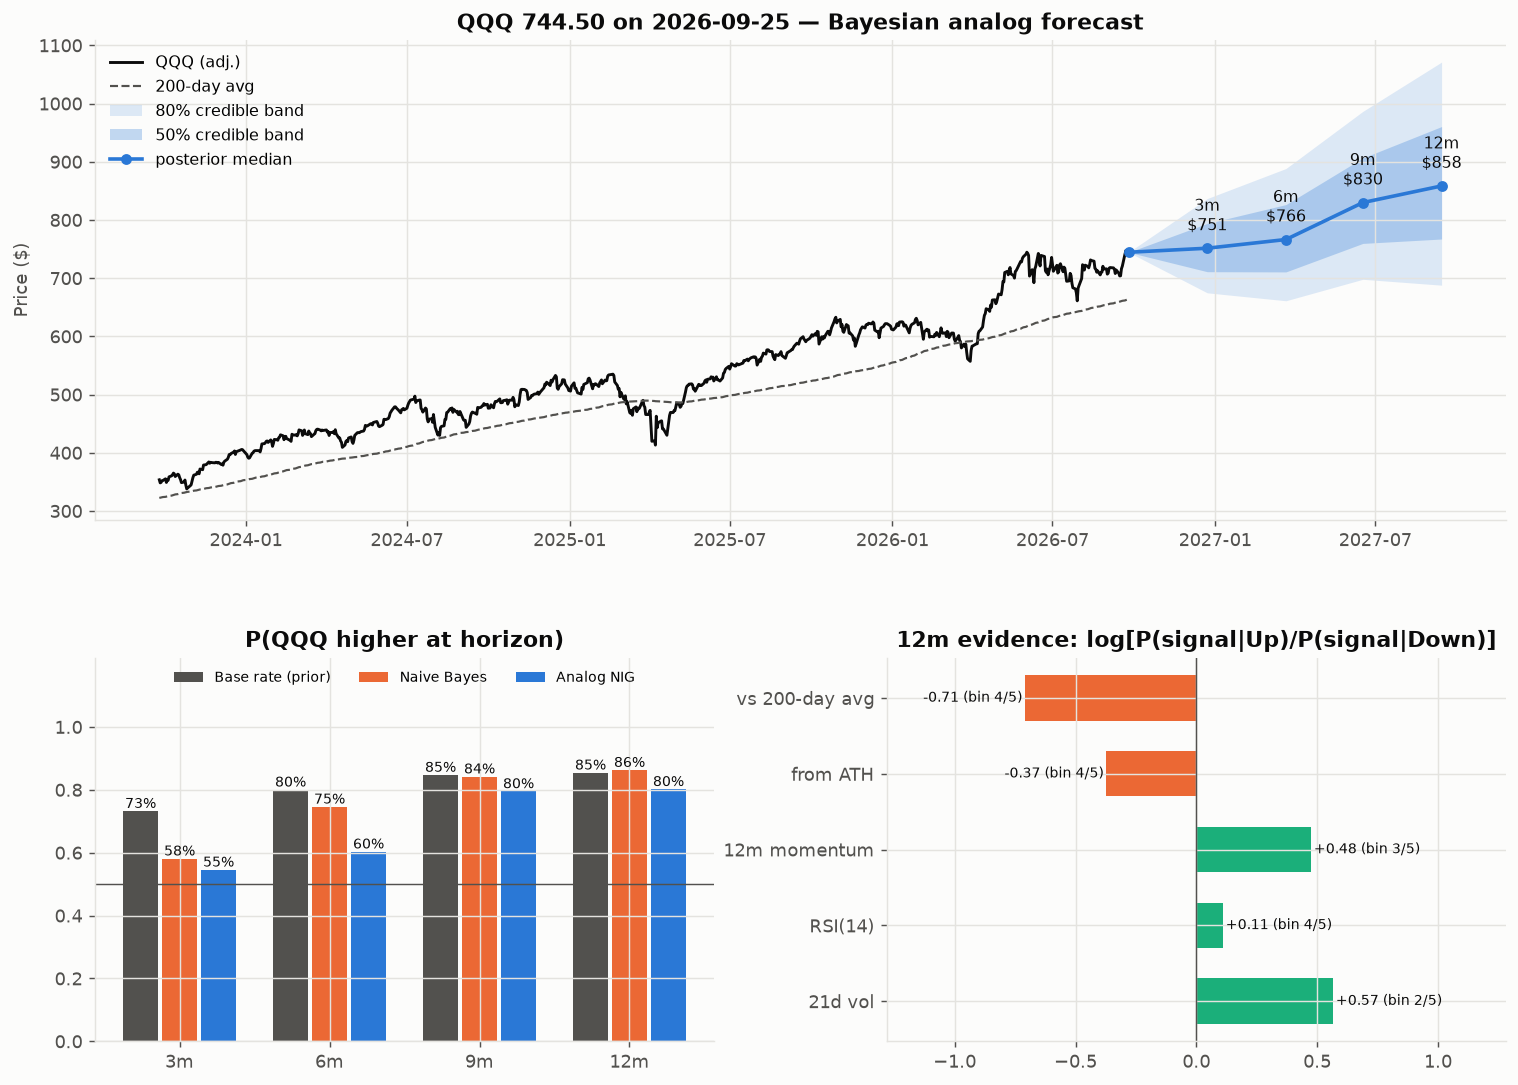
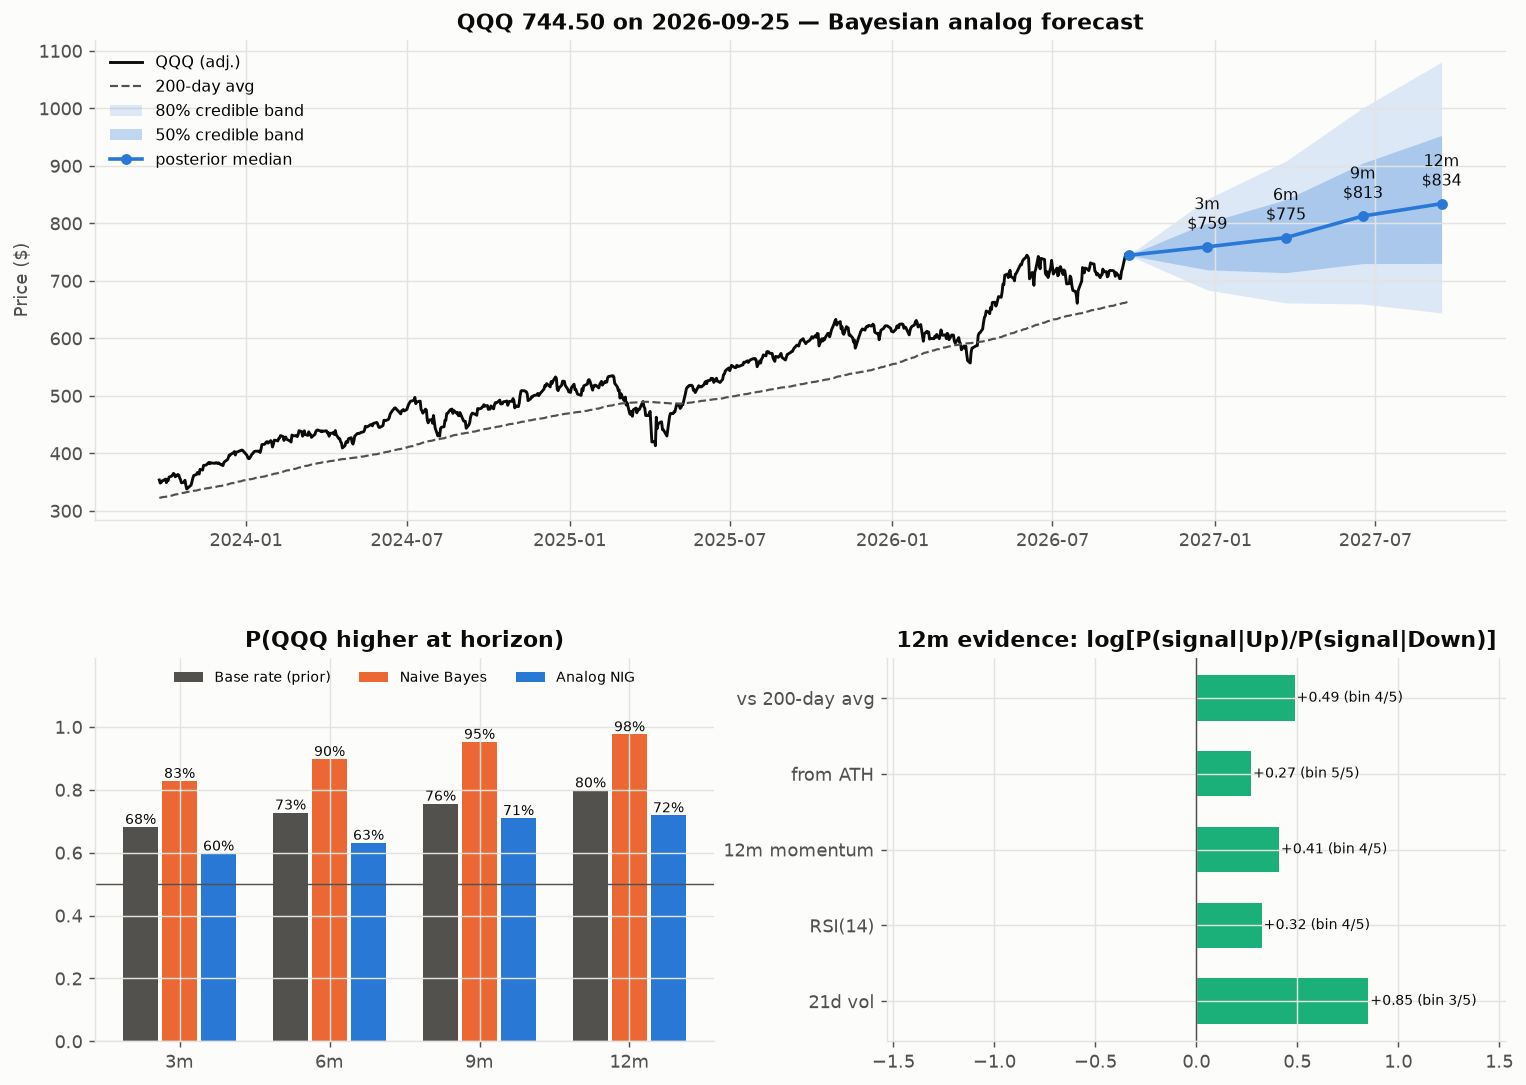
Rerun QQQ Bayesian model on full 1999-2026 history
Claude-Session: https://claude.ai/code/session_01B7z7pveVXsu6EckKpytw1t

diff --git a/qqq_bayes/README.md b/qqq_bayes/README.md
@@ -2,7 +2,7 @@
 
 - `QQQ_Bayesian_Forecast.ipynb`: open in Google Colab and choose Run all. It asks you to upload the QQQ xlsx, then pulls QQQ back to 1999 with `yfinance` and splices it onto your file.
 - `qqq_bayesian_forecast.py`: the same code as a plain script (`# %%` cells).
-- `run_output.txt` / `qqq_bayes_forecast.png`: a run on the uploaded export only (2016-09-27 → 2026-09-25). It had no pre-2016 data because this sandbox had no internet.
+- `run_output.txt` / `qqq_bayes_forecast.png`: a run on the full export, 1999-03-11 → 2026-09-25 (signals start 2000-03 once the 12-month lookback fills).
 
 ## Method
 Signals, all known on the day they are measured: price vs the 200-day average, distance from the all-time high, 12-month momentum, RSI(14), and 21-day realized volatility.
